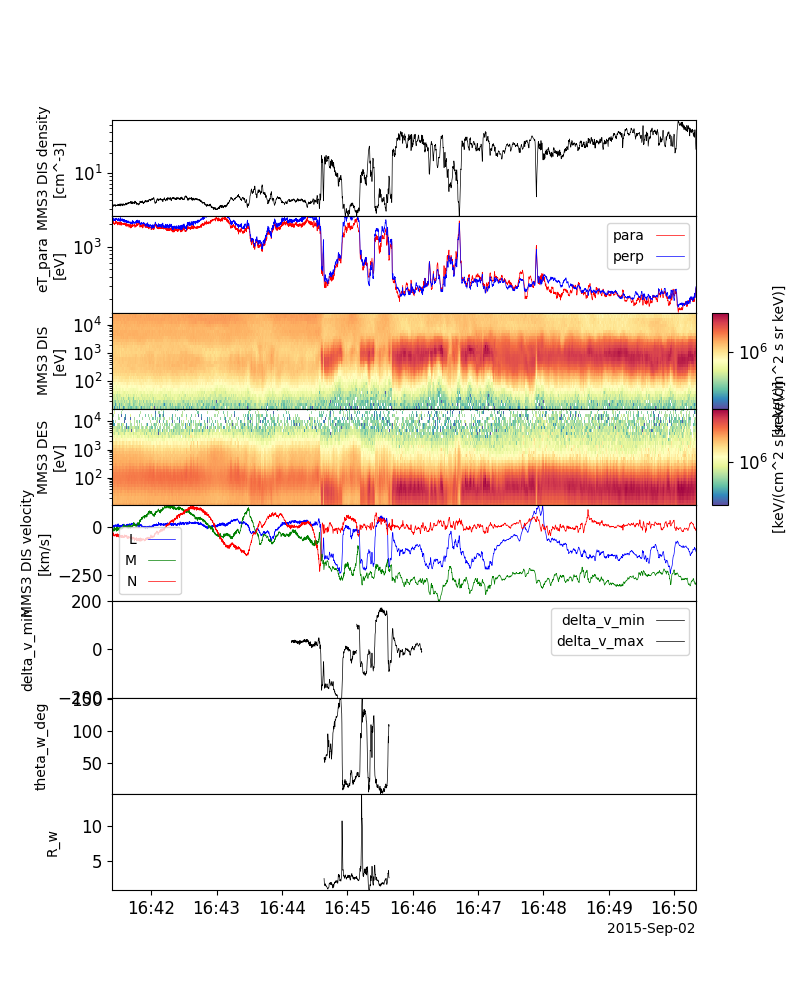
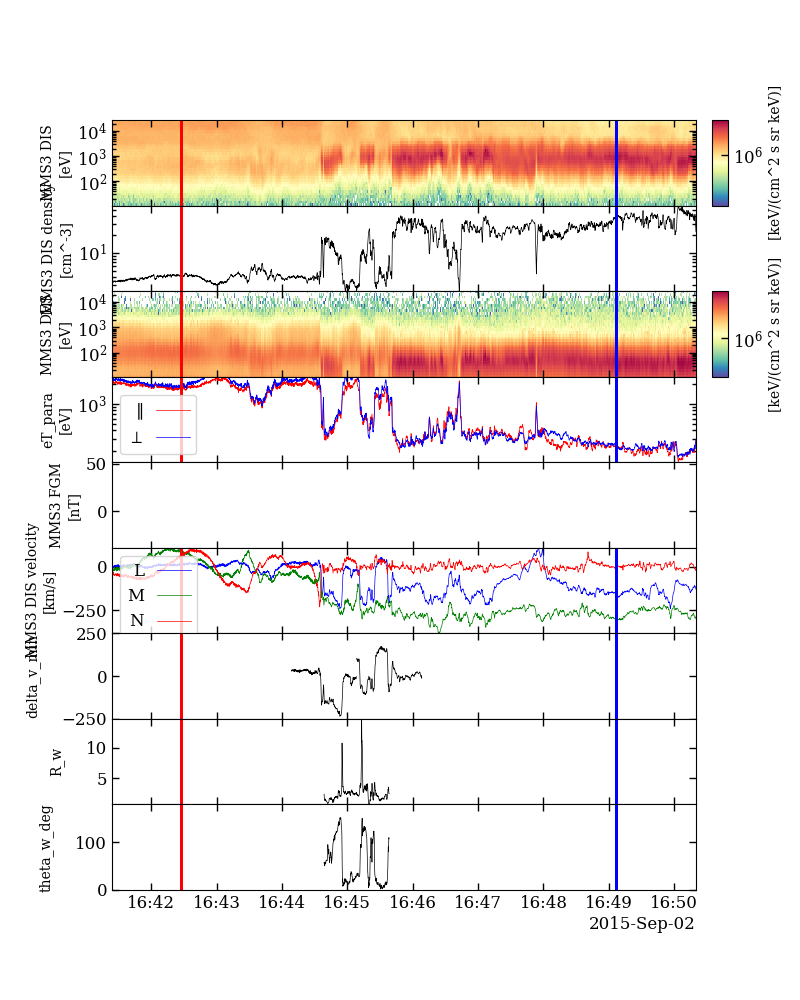
modified:   jet_reversal_quick_check_function_beta.py 	modified:   jet_reversal_quick_check_parallel_beta.py 	modified:   test_plot.png 	new file:   test_tplot.py

diff --git a/codes/jet_reversal_quick_check_function_beta.py b/codes/jet_reversal_quick_check_function_beta.py
@@ -211,9 +211,9 @@ def jet_reversal_check(crossing_time=None, dt=90, probe=3, data_rate='fast', lev
 
     # Create a dataframe with the FGM data
     if coord_type == 'lmn':
-        df_mms_fgm = pd.DataFrame(index=mms_fgm_time, data={'b_lmn_n': mms_fgm_b_lmn[:, 2],
+        df_mms_fgm = pd.DataFrame(index=mms_fgm_time, data={'b_lmn_l': mms_fgm_b_lmn[:, 0],
                                                             'b_lmn_m': mms_fgm_b_lmn[:, 1],
-                                                            'b_lmn_l': mms_fgm_b_lmn[:, 0]})
+                                                            'b_lmn_n': mms_fgm_b_lmn[:, 2]})
     else:
         df_mms_fgm = pd.DataFrame(index=mms_fgm_time, data={'b_gsm_x': mms_fgm_b_gsm[:, 0],
                                                             'b_gsm_y': mms_fgm_b_gsm[:, 1],
@@ -262,7 +262,7 @@ def jet_reversal_check(crossing_time=None, dt=90, probe=3, data_rate='fast', lev
                                             'y': delta_v_min})
         ptt.store_data('delta_v_max', data={'x': t_delta_v_max_unix,
                                             'y': delta_v_max})
-        ptt.store_data('delta_v_min_max', data=['delta_v_min', 'delta_v_max'])
+        ptt.store_data('delta_v', data=['delta_v_min', 'delta_v_max'])
 
         # If jet was detected, then check if walen relation is satisfied
         (walen_relation_satisfied_v1, walen_relation_satisfied_v2, theta_w_deg, R_w, theta_all_deg,
@@ -497,71 +497,8 @@ def jet_reversal_check(crossing_time=None, dt=90, probe=3, data_rate='fast', lev
         crossing_time_str = crossing_time.strftime("%Y-%m-%d %H:%M:%S.%f")[:-3]
 
     ind_crossing = np.where(df_crossing_temp.index == crossing_time_str)[0][0]
-
-    # Set the fontstyle to Times New Roman
-    font = {'family': 'serif', 'weight': 'normal', 'size': 16 }
-    plt.rc('font', **font)
-    plt.rc('text', usetex=True)
-    # Set tick parameters such that ticks are visible on all sides
-    plt.rcParams['xtick.direction'] = 'in'
-    plt.rcParams['ytick.direction'] = 'in'
-    plt.rcParams['xtick.top'] = True
-    plt.rcParams['ytick.right'] = True
-
-    # Set the tick length and widths
-    plt.rcParams['xtick.major.size'] = 5
-    plt.rcParams['xtick.major.width'] = 1
-    plt.rcParams['ytick.major.size'] = 5
-    plt.rcParams['ytick.major.width'] = 1
-    plt.rcParams['xtick.minor.size'] = 3
-    plt.rcParams['xtick.minor.width'] = 1
-    plt.rcParams['ytick.minor.size'] = 3
-    plt.rcParams['ytick.minor.width'] = 1
-
-    # plt.style.use('dark_background')
-
-    # if jet_detection:
-
-    tplot_globat_options = {"show_all_axes": True,
-                            "black_background": True,
-                            "crosshair": True,
-                            "vertical_spacing": 0,
-                            }
-    for key in tplot_globat_options:
-        ptt.tplot_options(key, tplot_globat_options[key])
-
-
-    # ptt.timebar(ptt.get_data(mms_fpi_varnames[0])[0].min() + 200, color='red', dash=True, thick=2)
-    # ptt.timespan(ptt.get_data(mms_fpi_varnames[0])[0].min() + 160, 100, keyword="seconds")
-    energy_spectr_dict_option = {'Colormap': "Spectral_r",
-                                 'ylog': True,
-                                 'zlog': True}
-    temp_dict_option = {'ylog': True,
-                        'color': ['red', 'blue'],
-                        'linestyle': '-',
-                        'legend_names': ['para', 'perp']
-                        }
-    delta_v_min_max_dict_option = {'color': ['k', 'k'],
-                                   'linestyle': '-',
-                                   'legend_names': ['delta_v_min', 'delta_v_max'],
-                                    'yrange': [-200, 200]
-                                   }
-    keys_to_plot = [f'mms{probe}_dis_numberdensity_{data_rate}',
-                    'Tp',
-                    f'mms{probe}_dis_energyspectr_omni_{data_rate}',
-                    f'mms{probe}_des_energyspectr_omni_{data_rate}',
-                    f'mms{probe}_dis_bulkv_lmn_{data_rate}',
-                    'delta_v_min_max',
-                    'theta_w_deg',
-                    'R_w',
-                    ]
-    #ptt.options(f'mms{probe}_dis_numberdensity_{data_rate}', 'ylog', True)
-    ptt.options(f'mms{probe}_dis_energyspectr_omni_{data_rate}', opt_dict=energy_spectr_dict_option)
-    ptt.options(f'mms{probe}_des_energyspectr_omni_{data_rate}', opt_dict=energy_spectr_dict_option)
-    ptt.options('Tp', opt_dict=temp_dict_option)
-    ptt.options('delta_v_min_max', opt_dict=delta_v_min_max_dict_option)
-
-    ptt.tplot(keys_to_plot, save_png="test_plot", display=False)
+    tplot_fnc(ptt=ptt, probe=probe, data_rate=data_rate, df_mms=df_mms,
+              ind_range_msp=ind_range_msp, ind_range_msh=ind_range_msh)
 
     """
     plt.close("all")
@@ -797,7 +734,8 @@ def jet_reversal_check(crossing_time=None, dt=90, probe=3, data_rate='fast', lev
                   combine_axes=True, save_png='b_n_v_fig', display=False)
         plt.close("all")
     """
-    return df_mms_fpi, df_mms_fgm, df_mms
+    #return df_mms_fpi, df_mms_fgm, df_mms
+    return ptt, df_mms, ind_range_msp, ind_range_msh
 
 
 
@@ -1205,3 +1143,94 @@ def check_msp_msh_location(df_mms, verbose=True):
             pass
 
     return ind_range_msp, ind_range_msh
+
+
+def tplot_fnc(ptt=None, probe=3, data_rate='brst', df_mms=None, ind_range_msp=None,
+              ind_range_msh=None):
+    # Set the fontstyle to Times New Roman
+    font = {'family': 'serif', 'weight': 'normal', 'size': 12}
+    plt.rc('font', **font)
+    plt.rc('text', usetex=False)
+    # Set tick parameters such that ticks are visible on all sides
+    plt.rcParams['xtick.direction'] = 'in'
+    plt.rcParams['ytick.direction'] = 'in'
+    plt.rcParams['xtick.top'] = True
+    plt.rcParams['ytick.right'] = True
+
+    # Set the tick length and widths
+    plt.rcParams['xtick.major.size'] = 5
+    plt.rcParams['xtick.major.width'] = 1
+    plt.rcParams['ytick.major.size'] = 5
+    plt.rcParams['ytick.major.width'] = 1
+    plt.rcParams['xtick.minor.size'] = 3
+    plt.rcParams['xtick.minor.width'] = 1
+    plt.rcParams['ytick.minor.size'] = 3
+    plt.rcParams['ytick.minor.width'] = 1
+
+    # Define the size of the figure
+    plt.rcParams['figure.figsize'] = [20, 6]
+
+    # plt.style.use('dark_background')
+
+    # if jet_detection:
+
+    tplot_global_options = {"show_all_axes": True,
+                            "black_background": True,
+                            "crosshair": True,
+                            "vertical_spacing": 0,
+                            "wsize": [2500, 1080],
+                            # "title": f"Probe {probe} {data_rate}",
+                            }
+    for key in tplot_global_options:
+        ptt.tplot_options(key, tplot_global_options[key])
+
+    keys_to_plot = [f'mms{probe}_dis_energyspectr_omni_{data_rate}',
+                    f'mms{probe}_dis_numberdensity_{data_rate}',
+                    f'mms{probe}_des_energyspectr_omni_{data_rate}',
+                    'Tp',
+                    f'mms3_fgm_b_lmn_srvy_l2',
+                    f'mms{probe}_dis_bulkv_lmn_{data_rate}',
+                    'delta_v',
+                    'R_w',
+                    'theta_w_deg',
+                    ]
+
+    # ptt.timebar(ptt.get_data(mms_fpi_varnames[0])[0].min() + 200, color='red', dash=True, thick=2)
+    # ptt.timespan(ptt.get_data(mms_fpi_varnames[0])[0].min() + 160, 100, keyword="seconds")
+    energy_spectr_dict_option = {'Colormap': "Spectral_r",
+                                 'ylog': True,
+                                 'zlog': True}
+    tp_dict_option = {'ylog': True,
+                        'color': ['red', 'blue'],
+                        'linestyle': '-',
+                        'legend_names': ['$\parallel$', '$\perp$']
+                        }
+    delta_v_dict_option = {'color': 'k',
+                                   'linestyle': '-',
+                                    'yrange': [-250, 250],
+                                    'varlabel': '$\Delta v$',
+                                   }
+
+    theta_w_deg_dict_option = {'color': 'k',
+                               'linestyle': '-',
+                               'yrange': [0, 180],
+                               }
+
+    msp_time = df_mms.index[ind_range_msp[int(len(ind_range_msp)/2)]]
+    msh_time = df_mms.index[ind_range_msh[int(len(ind_range_msh)/2)]]
+    # Convert msp_time to UNIX time
+    msp_time_unix = msp_time.timestamp()
+    msh_time_unix = msh_time.timestamp()
+    ptt.timebar(msp_time_unix, databar=False, color='red', dash=True, thick=2)
+    ptt.timebar(msh_time_unix, databar=False, color='blue', dash=True, thick=2)
+    ptt.timebar([70, -70], databar=True, varname='delta_v', color='k', dash=True, thick=2)
+
+    ptt.options(f'mms{probe}_dis_energyspectr_omni_{data_rate}', 
+                opt_dict=energy_spectr_dict_option)
+    ptt.options(f'mms{probe}_des_energyspectr_omni_{data_rate}', 
+                opt_dict=energy_spectr_dict_option)
+    ptt.options('Tp', opt_dict=tp_dict_option)
+    ptt.options('delta_v', opt_dict=delta_v_dict_option)
+    ptt.options('theta_w_deg', opt_dict=theta_w_deg_dict_option)
+
+    ptt.tplot(keys_to_plot, save_png="test_plot", display=False)

diff --git a/codes/jet_reversal_quick_check_parallel_beta.py b/codes/jet_reversal_quick_check_parallel_beta.py
@@ -51,7 +51,7 @@ def check_jet_reversal(crossing_time):
               "verbose": True
               }
     inputs["data_rate"] = 'brst'
-    _ = jrcfb.jet_reversal_check(**inputs)
+    ptt, df_mms, ind_range_msp, ind_range_msh = jrcfb.jet_reversal_check(**inputs)
     # v1, v2, ind_walen = jrcfb.jet_reversal_check(**inputs)
     #try:
     #    try:
@@ -77,10 +77,14 @@ def check_jet_reversal(crossing_time):
     #                f.write(f"{crossing_time},{e}\n")
     #            f.close()
     #    pass
+    return ptt, df_mms, ind_range_msp, ind_range_msh
 
-
-crossing_time = df_jet_reversal_times.index[0]
-check_jet_reversal(crossing_time)
+for xx in range(1):
+    try:
+        crossing_time = df_jet_reversal_times.index[xx]
+        dat, df_mms, ind_range_msp, ind_range_msh = check_jet_reversal(crossing_time)
+    except Exception as e:
+        print(f"{e} for date {crossing_time}")
 
 '''
 @contextmanager

diff --git a/codes/test_tplot.py b/codes/test_tplot.py
@@ -1,0 +1,7 @@
+import importlib
+
+import jet_reversal_quick_check_function_beta as jrcfb
+
+importlib.reload(jrcfb)
+
+jrcfb.tplot_fnc(ptt=dat, df_mms=df_mms, ind_range_msp=ind_range_msp, ind_range_msh=ind_range_msh)
